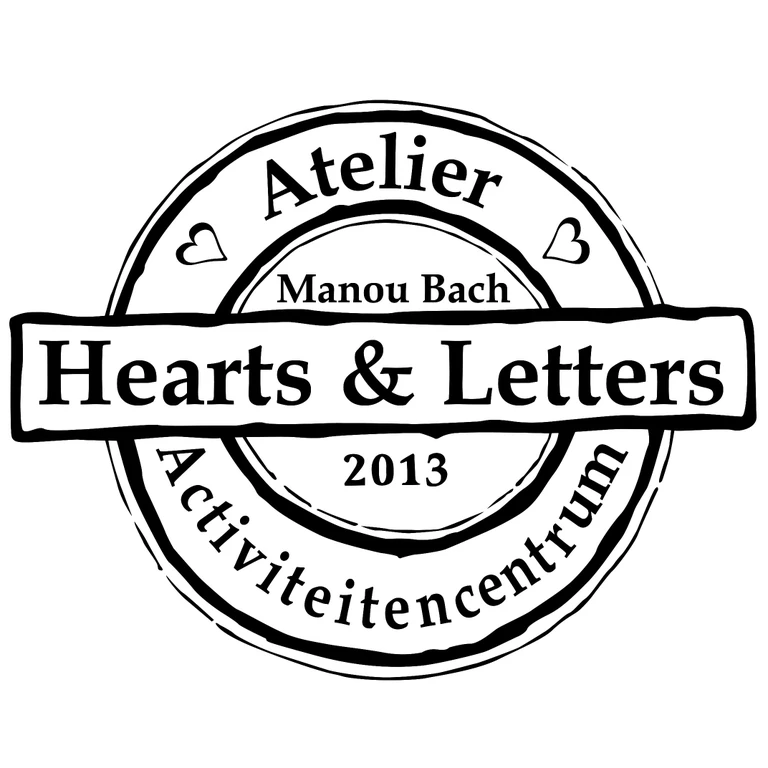
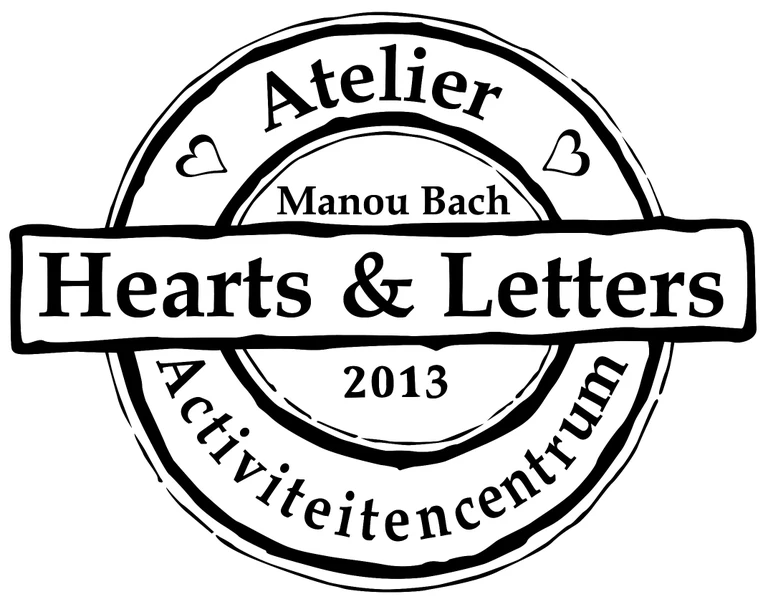
updated contact info and converted images to webp

Changed region(s): [[0.0, 0.0, 1.0, 0.9834]]

diff --git a/_includes/nav.html b/_includes/nav.html
@@ -3,7 +3,6 @@
   {%- if site.title-img -%}
     <a class="navbar-brand navbar-brand-logo" href="{{ '' | absolute_url }}"><img alt="{{ site.title }} Logo" src="{{ site.title-img | relative_url}}"/></a>
   {%- elsif site.title -%}
-    <a class="navbar-brand" href="{{ '' | absolute_url }}">{{ site.title }}</a>
   {%- endif -%}
 
   <button class="navbar-toggler" type="button" data-toggle="collapse" data-target="#main-navbar" aria-controls="main-navbar" aria-expanded="false" aria-label="Toggle navigation">

diff --git a/assets/css/beautifuljekyll.css b/assets/css/beautifuljekyll.css
@@ -1137,3 +1137,14 @@ pre {
     display: inline-block;
   }
 }
+
+img.container-logo { 
+	padding: 1.5em 0;
+	border: 0px solid green;
+
+float: left;
+width:  500px;
+height: 200px;
+object-fit: scale-down;
+
+}

diff --git a/contact.md b/contact.md
@@ -1,9 +1,114 @@
 ---
 layout: page
 title: Contact
+full-width: yes
 ---
 
-<span class="plaatje">
-![](/assets/img/contact.png)
-</span>
+<div class="container">
+<div class="row">
+	<div class="col-sm">
+	<img class="container-logo" src="/assets/img/joanna.webp"/>
+	</div>
+	<div class="col-sm">
+	<img class="container-logo" src="/assets/img/hearts.webp"/>
+	</div>
+	<div class="col-sm">
+	<img class="container-logo" src="/assets/img/abel.webp"/>
+	</div>
+</div>
 
+<div class="row">
+<div class="col-sm">
+<p>
+<b>Zorgboerderij Jo-Anna Hoeve</b><br/>
+Broekdijk 29<br/>
+5125 NE Hulten<br/>
+<br/>
+
+<a href="">info@jo-annahoeve.nl</a><br/>
+<a href="http://www.jo-annahoeve.nl">www.jo-annahoeve.nl</a><br/>
+Facebook: <a href="">JoAnnaHoeve</a>
+</p>
+</div>
+
+<div class="col-sm">
+<p>
+<b>Atelier Hearts & Letters</b><br/>
+Mariastraat 57<br/>
+5121 JV Rijen<br/>
+<br/>
+
+<a href="">hearts-letters@outlook.com</a><br/>
+<a href="http://www.hearts-letters.nl">www.hearts-letters.nl</a><br/>
+Facebook: <a href="">Hearts&Letters</a>
+</p>
+</div>
+
+<div class="col-sm">
+<p>
+<b>Dagbesteding ABEL</b><br/>
+Rembrandtlaan 54<br/>5121 WL Rijen<br/>
+<br/>
+
+<a href="">algemeen@dagbestedingabel.nl</a><br/>
+<a href="http://www.dagbestedingabel.nl">www.dagbestedingabel.nl</a><br/>
+Facebook: <a href="">Dagbesteding ABEL</a>
+</p>
+</div>
+</div>
+
+<div class="row"><div class="col-sm">&nbsp;</div></div>
+<div class="row">
+	<div class="col-sm">
+	<img class="container-logo" src="/assets/img/studio10.webp"/>
+	</div>
+	<div class="col-sm">
+	<img class="container-logo" src="/assets/img/wilgenhart.webp"/>
+	</div>
+	<div class="col-sm">
+	<img class="container-logo" src="/assets/img/raakeind.webp"/>
+	</div>
+</div>
+
+<div class="row">
+<div class="col-sm">
+<p>
+<b>Studio 10 zorgatelier</b><br/>
+Schaapsdijk 10a<br/>
+5126 PK Gilze<br/>
+<br/>
+
+<a href="">info@studio10zorgatelier.nl</a><br/>
+<a href="http://www.studio10zorgatelier.nl">www.studio10zorgatelier.nl</a><br/>
+Facebook: <a href="">Studio 10 Zorgatelier</a>
+</p>
+</div>
+
+<div class="col-sm">
+<p>
+<b>Zorgboerderij Wilgenhart</b><br/>
+Bavelseweg 128<br/>
+5124 PZ Molenschot<br/>
+<br/>
+
+<a href="">info@wilgenhart.nl</a><br/>
+<a href="http://www.wilgenhart.nl">www.wilgenhart.nl</a><br/>
+Facebook: <a href="">Wilgenhart</a>
+</p>
+</div>
+
+<div class="col-sm">
+<p>
+<b>Zorgboerderij 't Raakeind</b><br/>
+Rimpelaar 40<br/>
+5124 RB Molenschot<br/>
+<br/>
+
+<a href="">info@zorgboerderijraakeind.nl</a><br/>
+<a href="http://www.zorgboerderijraakeind.nl">www.zorgboerderijraakeind.nl</a><br/>
+Facebook: <a href="">Zorgboerderij 't Raakeind</a>
+</p>
+</div>
+</div>
+
+</div>

diff --git a/index.md b/index.md
@@ -10,10 +10,10 @@ full-width: true
 </span>
 
 <span class="logos">
-[!['t Raakeind](/assets/img/raakeind-logo.png)](https://www.zorgboerderijraakeind.nl/){:class="logos"}
-[![Abel](/assets/img/abel.gif)](https://www.dagbestedingabel.nl/){:class="logos"}
-[![Wilgenhart](/assets/img/wilgenhartlogo.png)](https://wilgenhart.nl/zorg){:class="logos"}
+[!['t Raakeind](/assets/img/raakeind.webp)](https://www.zorgboerderijraakeind.nl/){:class="logos"}
+[![Abel](/assets/img/abel.webp)](https://www.dagbestedingabel.nl/){:class="logos"}
+[![Wilgenhart](/assets/img/wilgenhart.webp)](https://wilgenhart.nl/zorg){:class="logos"}
 [![Hearts & Letters](/assets/img/hearts.webp)](https://www.hearts-letters.nl/){:class="logos"}
-[![Studio 10 zorgatelier](/assets/img/studio10.png)](https://www.studio10zorgatelier.nl){:class="logos"}
-[![Jo-Anna Hoeve](/assets/img/joanna.png)](https://www.jo-annahoeve.nl){:class="logos"}
+[![Studio 10 zorgatelier](/assets/img/studio10.webp)](https://www.studio10zorgatelier.nl){:class="logos"}
+[![Jo-Anna Hoeve](/assets/img/joanna.webp)](https://www.jo-annahoeve.nl){:class="logos"}
 </span>
